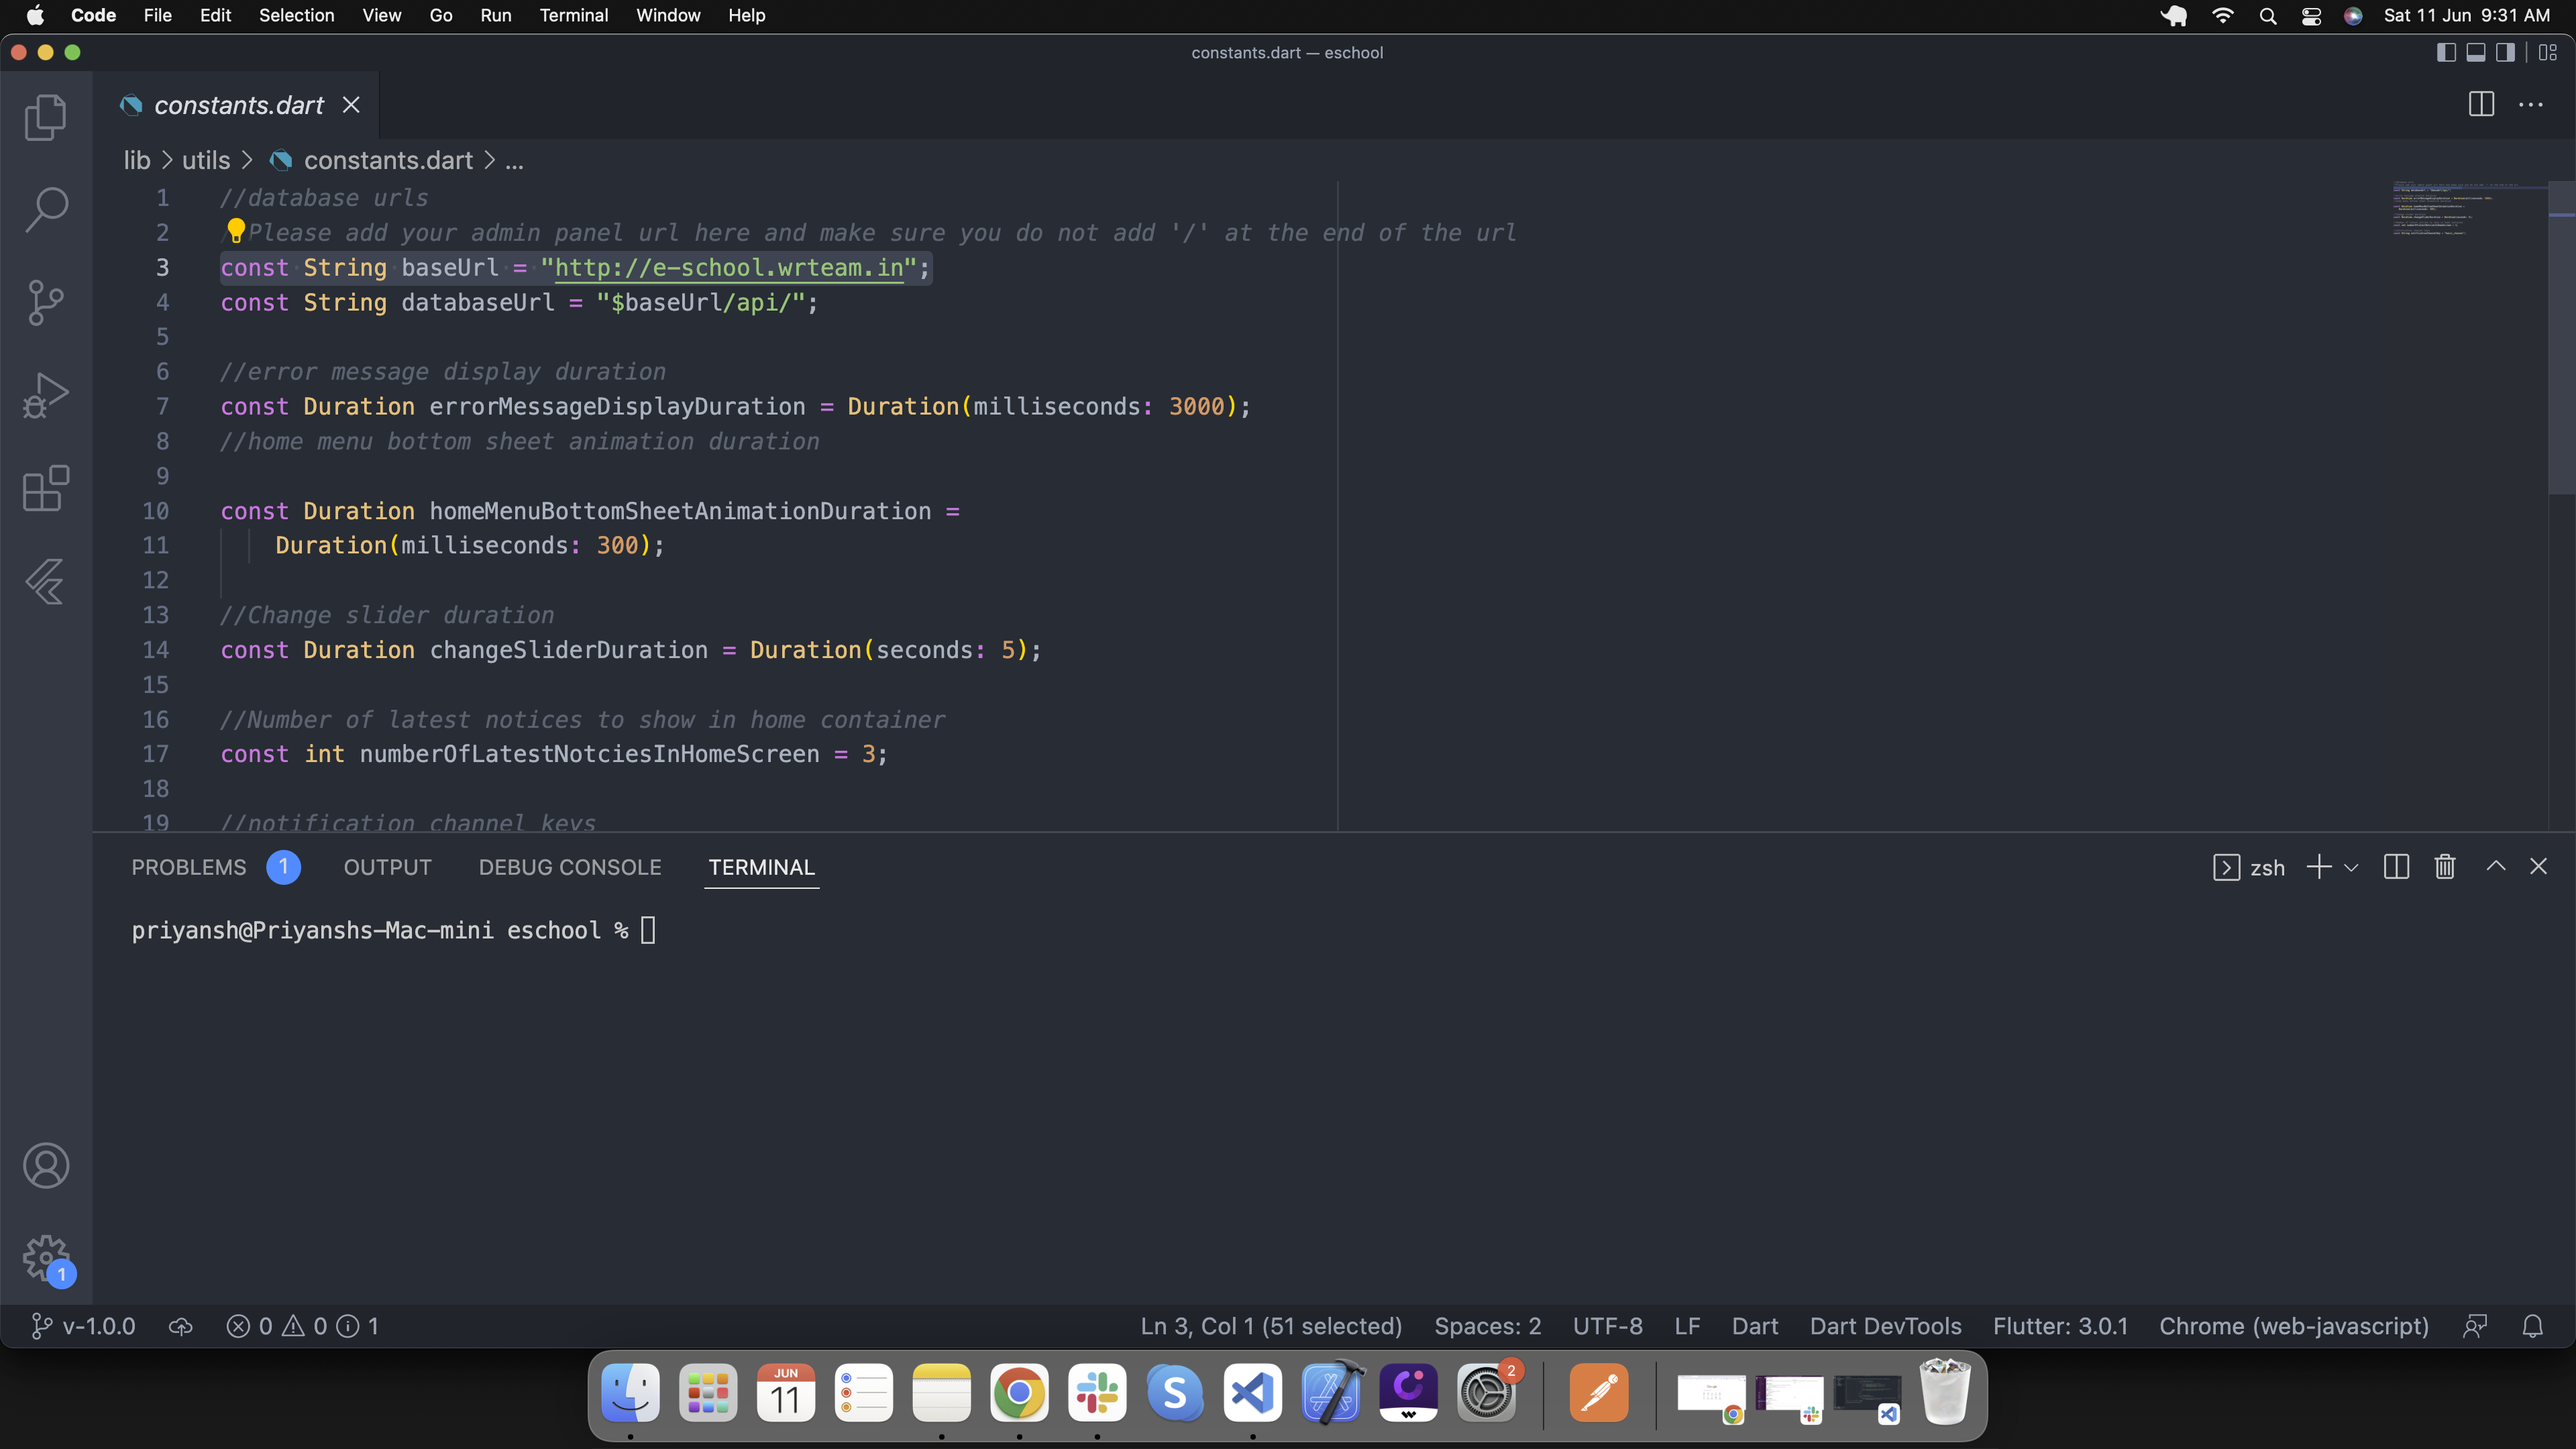
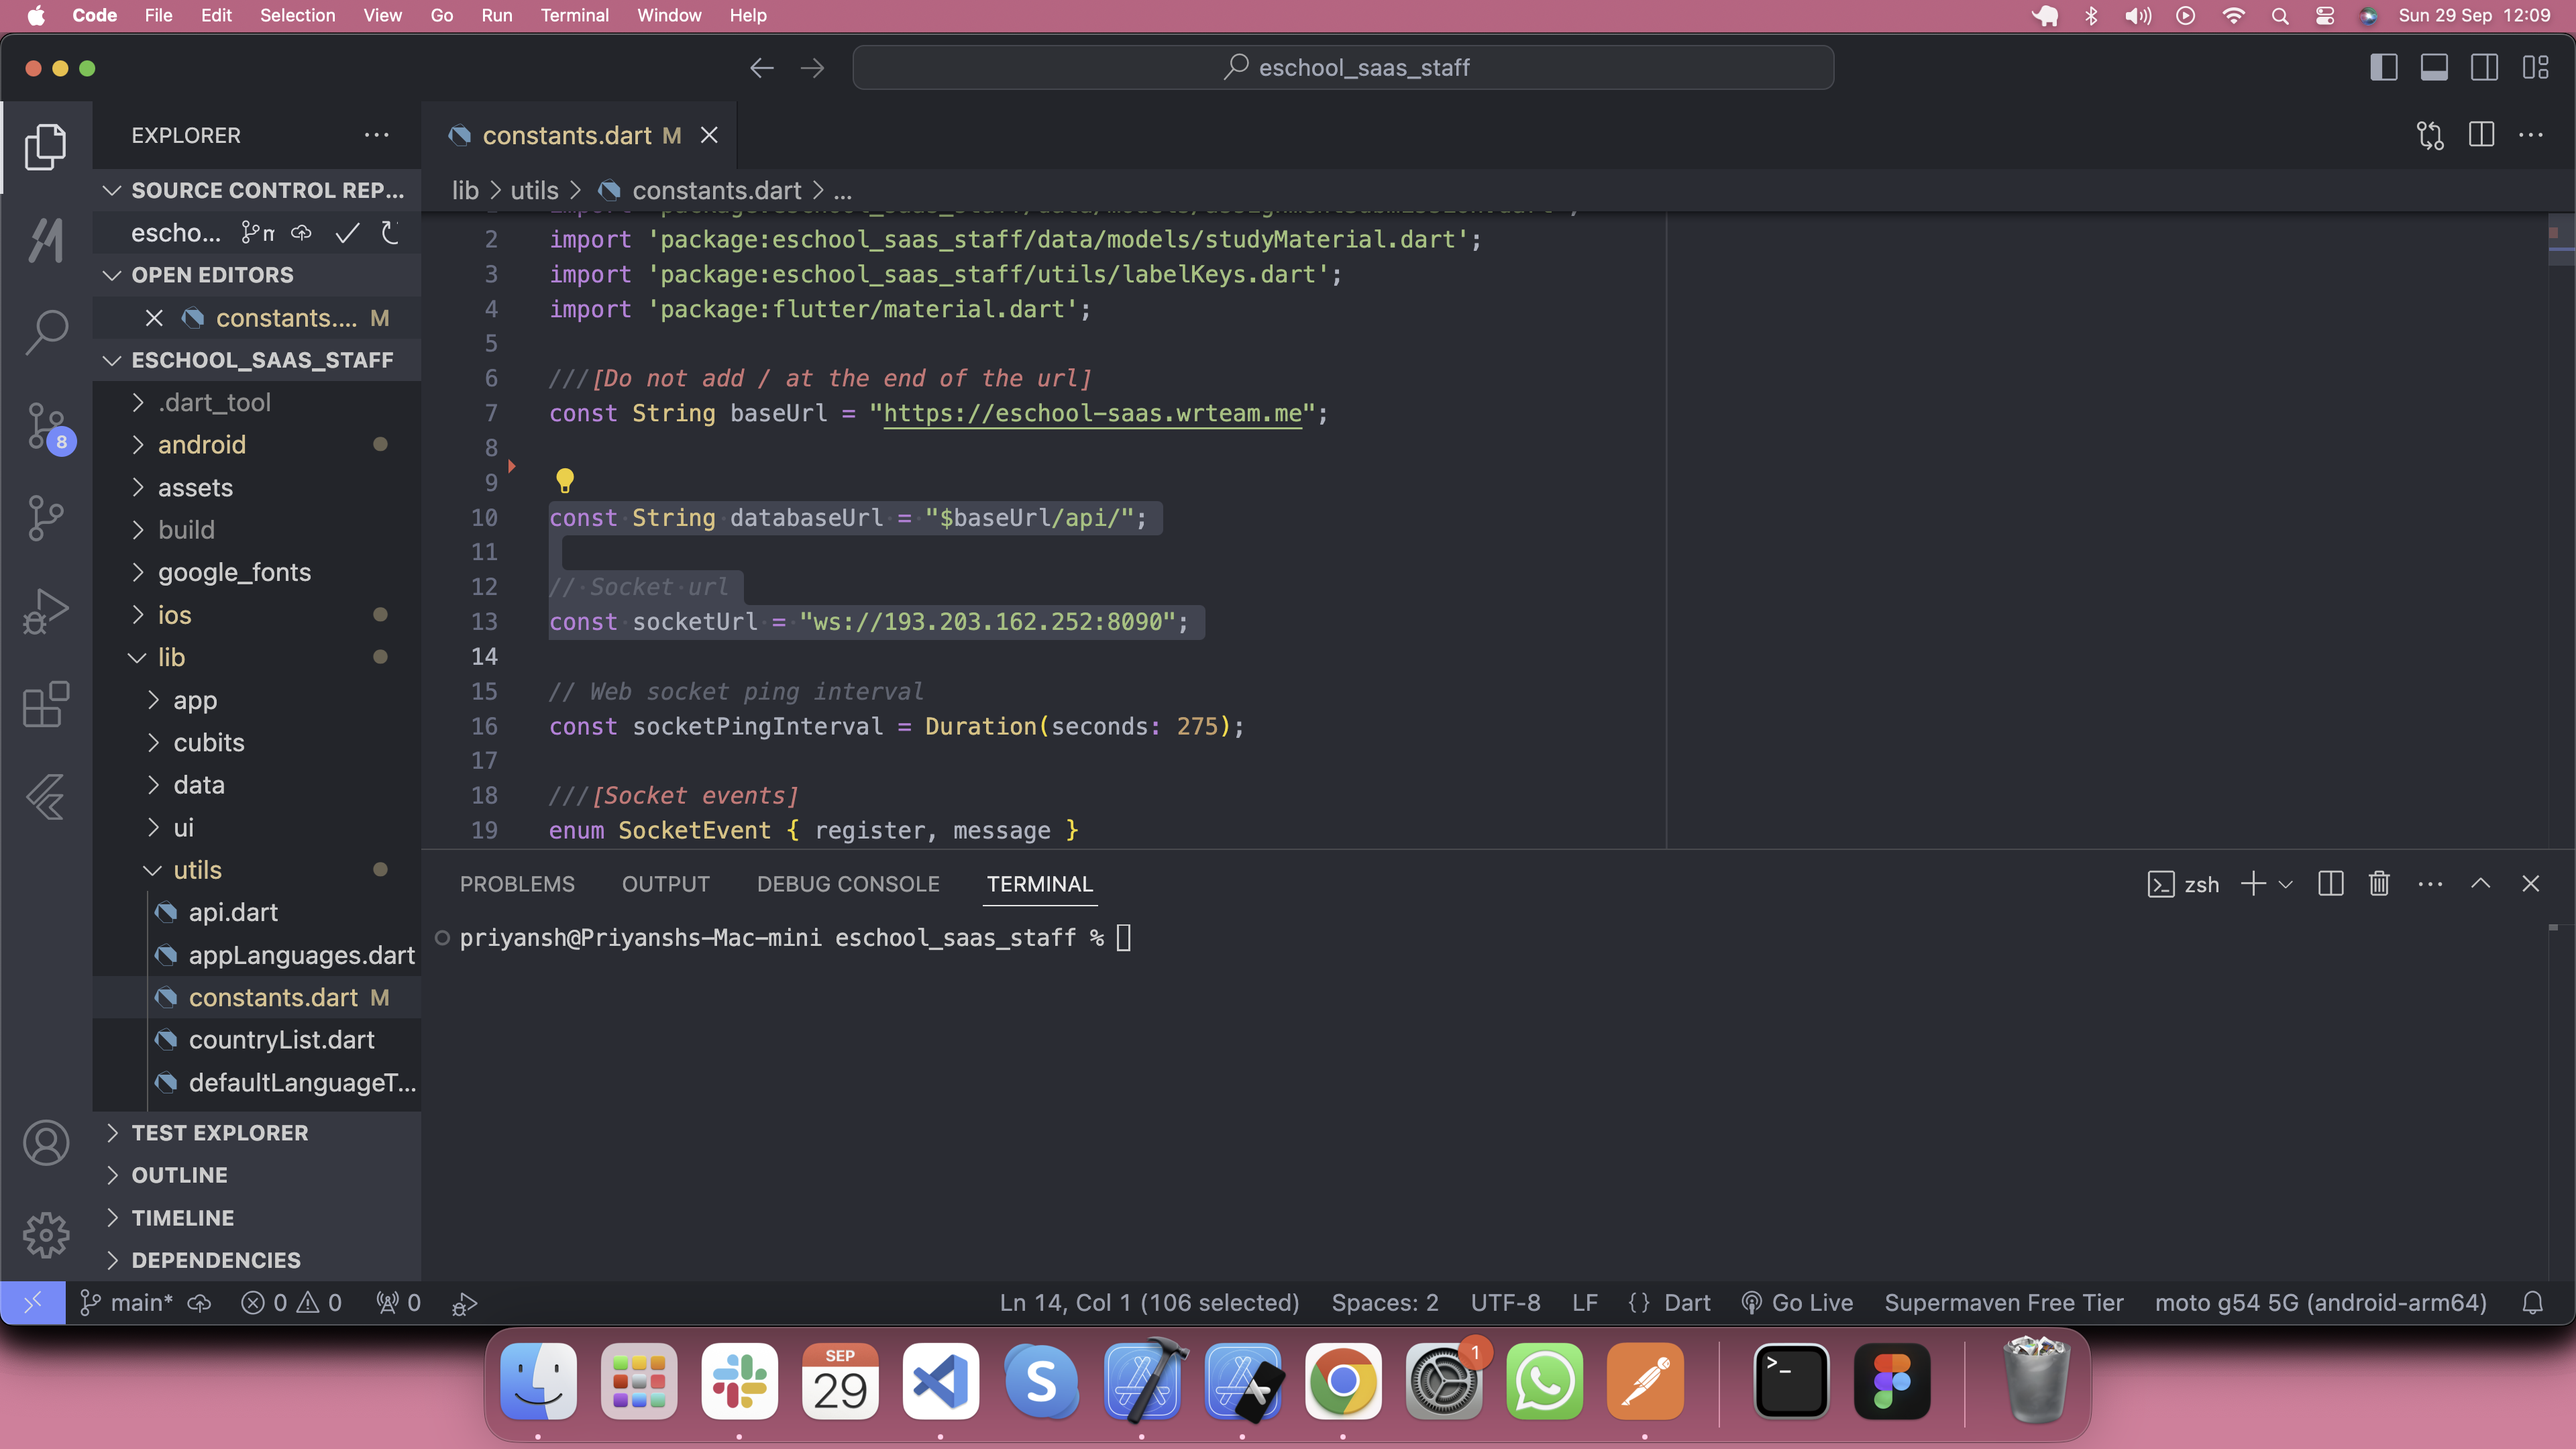
updated app language and added socket url

diff --git a/index.html b/index.html
@@ -55,7 +55,7 @@
 
                         <li class='sub-menu'><a>Setup Mobile Application<i class='fa fa-caret-down right'></i></a>
                             <ul>
-                                <li><a href="#impNote">Important Note</a></li>
+
                                 <li><a href='#setupFlutter'>Setup Flutter</a></li>
                                 <li><a href='#changePackageName'>Change Package Name Of Application</a></li>
                                 <li><a href='#integrateWithFirebase'>Integrate with Firebase</a></li>
@@ -65,8 +65,7 @@
                                 <li><a href='#runThisApp'>Run This App</a></li>
                                 <li><a href='#changeAppTheme'>Change App theme</a></li>
                                 <li><a href='#changeFont'>Change Font</a></li>
-                                <li><a href='#changeLanguageStudentParent'>Change Language Student-Parent App</a></li>
-                                <li><a href='#changeLanguageStaffTeacher'>Change Language Staff-Teacher App</a></li>
+                                <li><a href='#changeLanguage'>Change Language</a></li>
                                 <li><a href='#changeItemAnimations'>Change Item Animations</a></li>
                                 <li><a href='#generateReleaseVersion'>Generate Release Version</a></li>
                             </ul>
@@ -130,30 +129,42 @@
                 <br />
                 <div class="sec-content">
                     <h3 class="content-title">Prerequisite</h3>
-                    
+
                     <ul>
                         <li>
-                            <strong>Laravel Framework 10.0:</strong> Ensure your server supports Laravel 10.0, which requires <strong>PHP version 8.1.0 or higher</strong> for optimal performance.
+                            <strong>Laravel Framework 10.0:</strong> Ensure your server supports Laravel 10.0, which
+                            requires <strong>PHP version 8.1.0 or higher</strong> for optimal performance.
                         </li>
                         <li>
-                            <strong>VPS Server for Multi-Tenancy Database:</strong> A Virtual Private Server (VPS) is needed to handle multiple databases efficiently, with each school having a separate database.
+                            <strong>VPS Server for Multi-Tenancy Database:</strong> A Virtual Private Server (VPS) is
+                            needed to handle multiple databases efficiently, with each school having a separate
+                            database.
                         </li>
                         <li>
-                            <strong>Database Root User or Necessary Permissions:</strong> Full root access or adequate privileges are required to create, modify, and delete databases dynamically as part of your multi-tenancy architecture.
+                            <strong>Database Root User or Necessary Permissions:</strong> Full root access or adequate
+                            privileges are required to create, modify, and delete databases dynamically as part of your
+                            multi-tenancy architecture.
                         </li>
                         <li>
-                            <strong>Max Upload Size:</strong> Set a high enough upload size limit <strong>(e.g., 50MB+)</strong> in the server's to allow for larger file uploads (Required only for updating new version).
+                            <strong>Max Upload Size:</strong> Set a high enough upload size limit <strong>(e.g.,
+                                50MB+)</strong> in the server's to allow for larger file uploads (Required only for
+                            updating new version).
                         </li>
                         <li>
-                            <strong>Max Execution Time:</strong> Adjust the maximum execution time to avoid script timeouts during large operations like creating school databases, database imports, backups, or processing <strong>(recommended: 3600 seconds or more).</strong>
+                            <strong>Max Execution Time:</strong> Adjust the maximum execution time to avoid script
+                            timeouts during large operations like creating school databases, database imports, backups,
+                            or processing <strong>(recommended: 3600 seconds or more).</strong>
                         </li>
 
                         <li>
-                            <strong>WebSocket Server for Real-time Chat Module:</strong> To enable real-time messaging in the chat module, you'll need to set up a WebSocket server. This ensures live communication between users.
+                            <strong>WebSocket Server for Real-time Chat Module:</strong> To enable real-time messaging
+                            in the chat module, you'll need to set up a WebSocket server. This ensures live
+                            communication between users.
                         </li>
 
                         <li>
-                            <strong>Ports and Firewall Configuration:</strong> Ensure the necessary ports are open and properly configured in your server's firewall for WebSocket communication.
+                            <strong>Ports and Firewall Configuration:</strong> Ensure the necessary ports are open and
+                            properly configured in your server's firewall for WebSocket communication.
                         </li>
                     </ul>
 
@@ -293,29 +304,7 @@
                 </div>
             </section>
 
-            <!-- Setup flutter  -->
-            <section class="section css-structure" id="impNote">
 
-                <br />
-                <div class="sec-title">
-                    <span class="icon fa fa-info-circle"></span>
-                    <h2>Important note</h2>
-                </div>
-                <br />
-                <div class="sec-content">
-                    <ul>
-                        <li>The steps for using the <code>Student-Parent App</code> and
-                            <code>Staff-Teacher App</code> are mostly the same, except for managing the
-                            language option, which requires following different steps in each app.
-                        </li>
-                        <li>While using either the <code>Student-Parent App</code> and
-                            <code>Staff-Teacher App</code>, keep in mind that the process for managing the
-                            language option is unique to each app and requires separate steps to be followed accurately.
-                        </li>
-                    </ul>
-                    <br />
-                </div>
-            </section>
             <!-- Setup flutter  -->
             <section class="section css-structure" id="setupFlutter">
 
@@ -471,7 +460,8 @@
                 <br>
                 <div class="sec-content">
                     <h4>
-                        Go to lib/utils/constants.dart and replace the baseUrl with your admin panel url.
+                        Go to lib/utils/constants.dart and replace the baseUrl with your admin panel url. Set your
+                        socket url as well.
                     </h4>
                     <br><br>
                     <img src="images/app/changeDatabaseUrl.png" alt="e-School Saas" /><br>
@@ -618,10 +608,10 @@
             </section>
 
 
-            <section class="section css-structure" id="changeLanguageStudentParent">
+            <section class="section css-structure" id="changeLanguage">
                 <div class="sec-title">
                     <span class="icon fa fa-at"></span>
-                    <h2>Change language in Student-Parent app</h2>
+                    <h2>Change language in app</h2>
                 </div>
                 <br>
                 <div class="sec-content">
@@ -676,60 +666,7 @@
             </section>
 
 
-            <section class="section css-structure" id="changeLanguageStaffTeacher">
-                <div class="sec-title">
-                    <span class="icon fa fa-at"></span>
-                    <h2>Change language in Staff-Teacher app</h2>
-                </div>
-                <br>
-                <div class="sec-content">
-                    <ol>
-                        <li>
-                            <h4>By default,default applicaiton language is english. If you want to change default
-                                language
-                                go to lib/utils/appLanguages.dart and add your respective language's code shown in below
-                                image.
-                                Get your language code from here
-                                <a href="https://developers.google.com/admin-sdk/directory/v1/languages"
-                                    target="_blank">https://developers.google.com/admin-sdk/directory/v1/languages</a>.
-                            </h4>
-                            <br><br>
-                            <img src="images/app/changeDefaultLanguage.png" alt="e-School Saas" />
-                            <br><br>
-                        </li>
-                        <li>
-                            <h4>
-                                If your default language code is not in app language list add language details
-                                in list as shown in below image. Go to lib/utils/appLanguages.dart</h4>
-                            <br><br>
-                            <img src="images/app/addLanguage.png" alt="e-School Saas" />
-                            <br><br>
-                        </li>
-                        <li>
-                            <h4>
-                                If your default language is not added into translationsKeys in the
-                                lib/app/appTranslation.dart then add language
-                                code as shown in image.</h4>
-                            <br><br>
-                            <img src="images/app/staff-teacher-add-language.png" alt="e-School Saas" />
-                            <br><br>
-                        </li>
-                        <li>
-                            <h4>
-                                Create new variable Map<String,String> newLanguageCode = {}.
-                                    Copy all the labels form en variable and assigned translation in newLanguageCode
-                                    variable.</h4>
-                            <br><br>
-                            <img src="images/app/staff-teacher-add-language-2.png" alt="e-School Saas" />
-                            <br><br>
-                        </li>
-                        <li>
-                            <h4>
-                                If you want to add new language then follow the steps 2,3 and 4.</h4>
-                        </li>
-                    </ol>
-                </div>
-            </section>
+
 
             <section class="section css-structure" id="changeItemAnimations">
                 <div class="sec-title">
